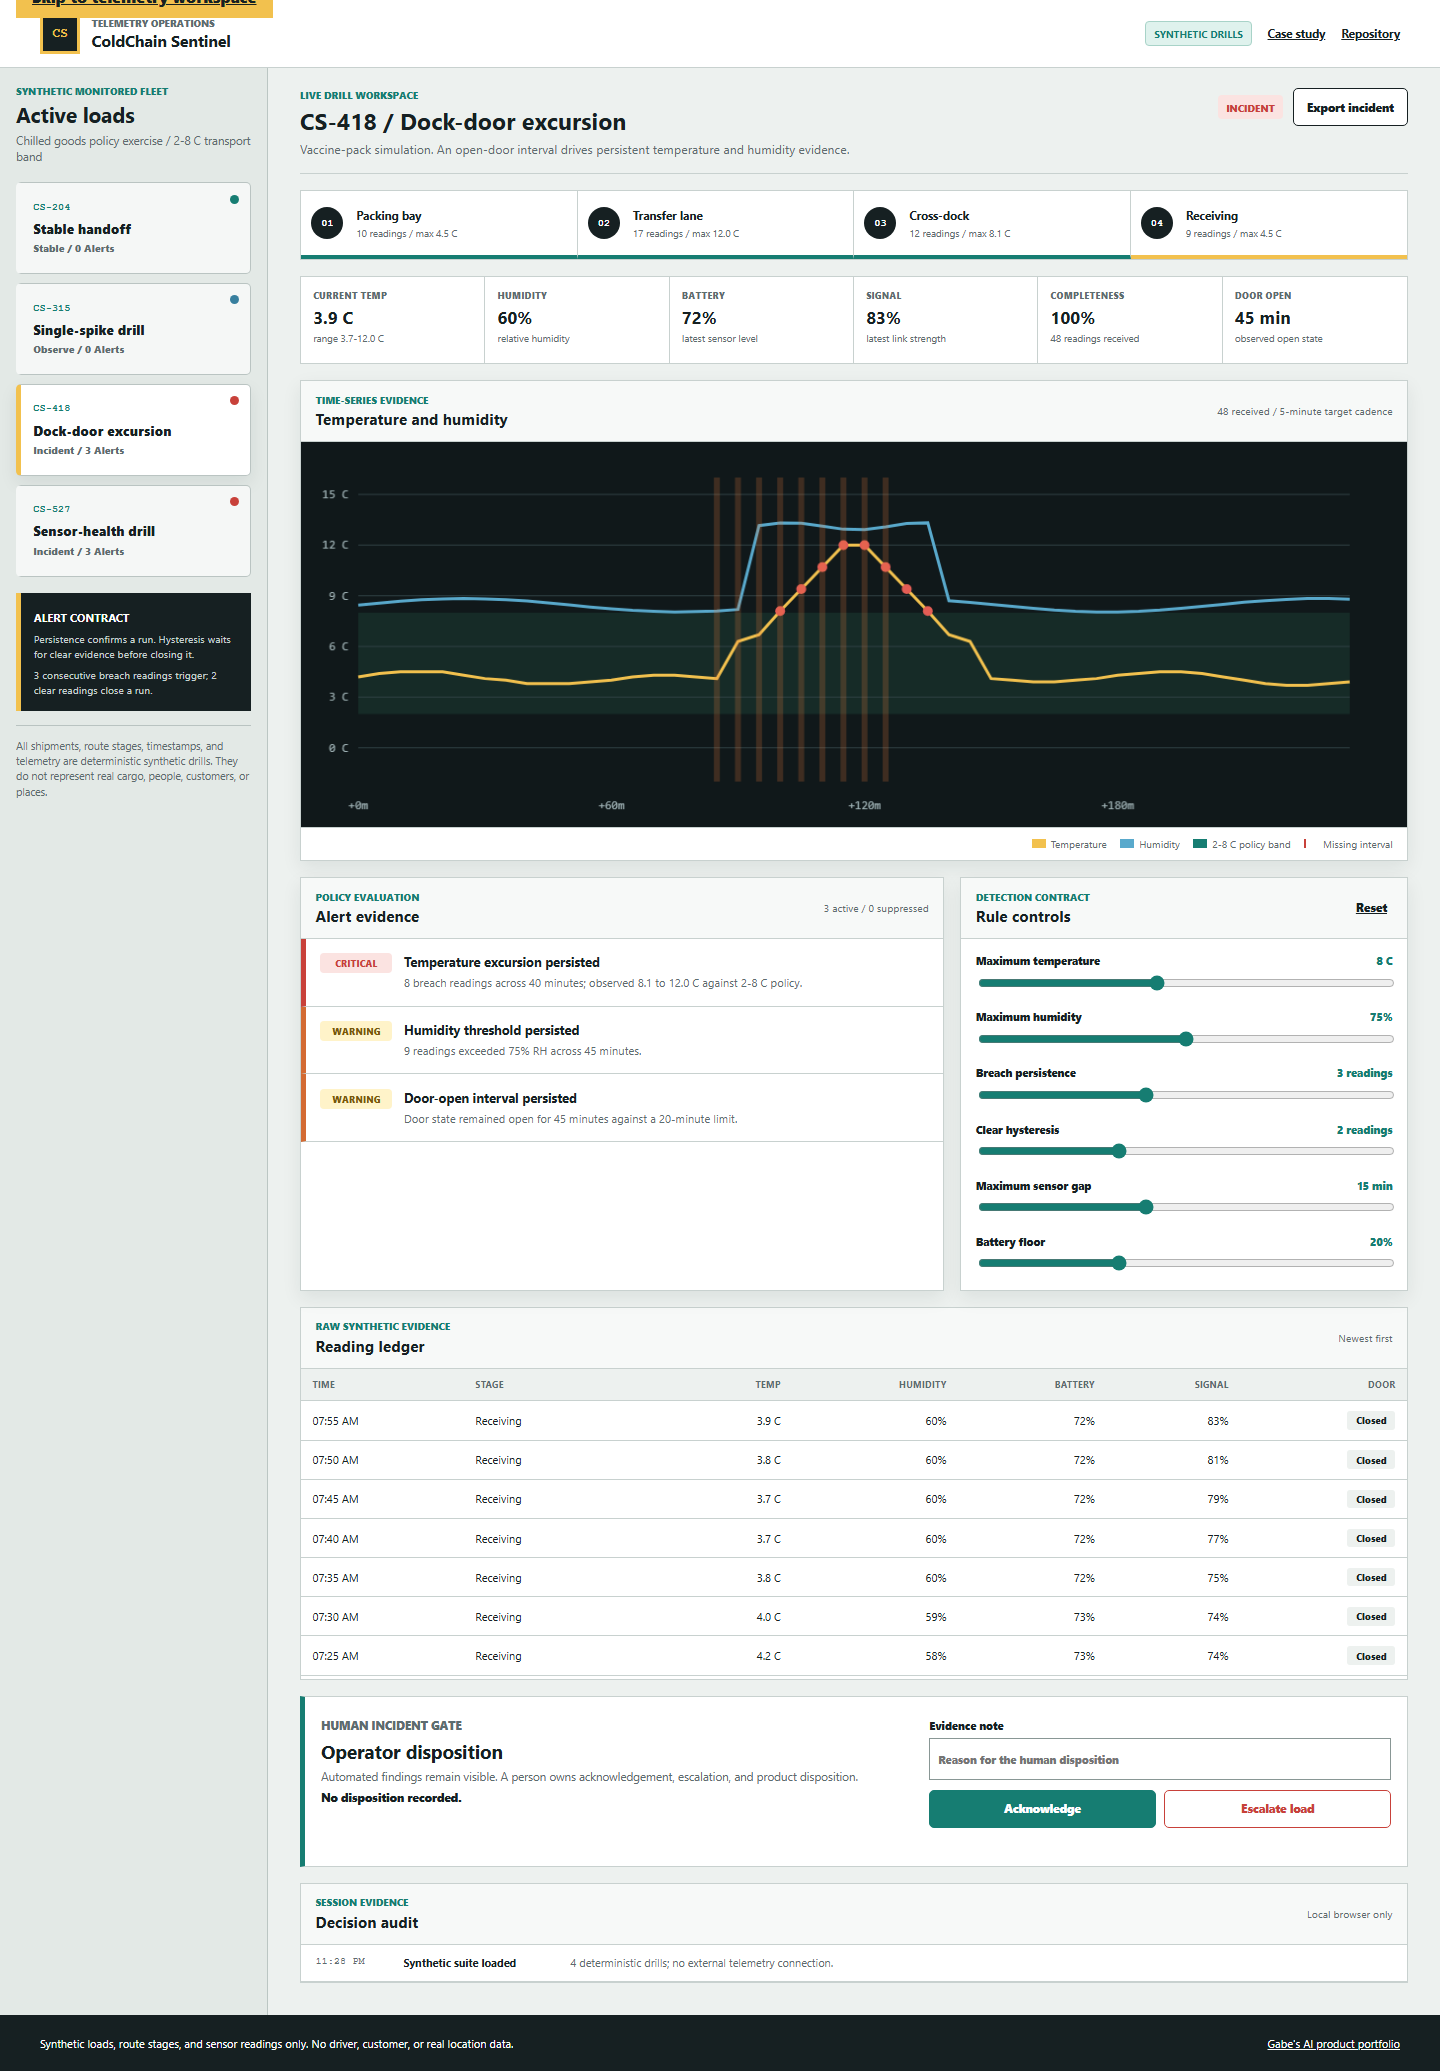
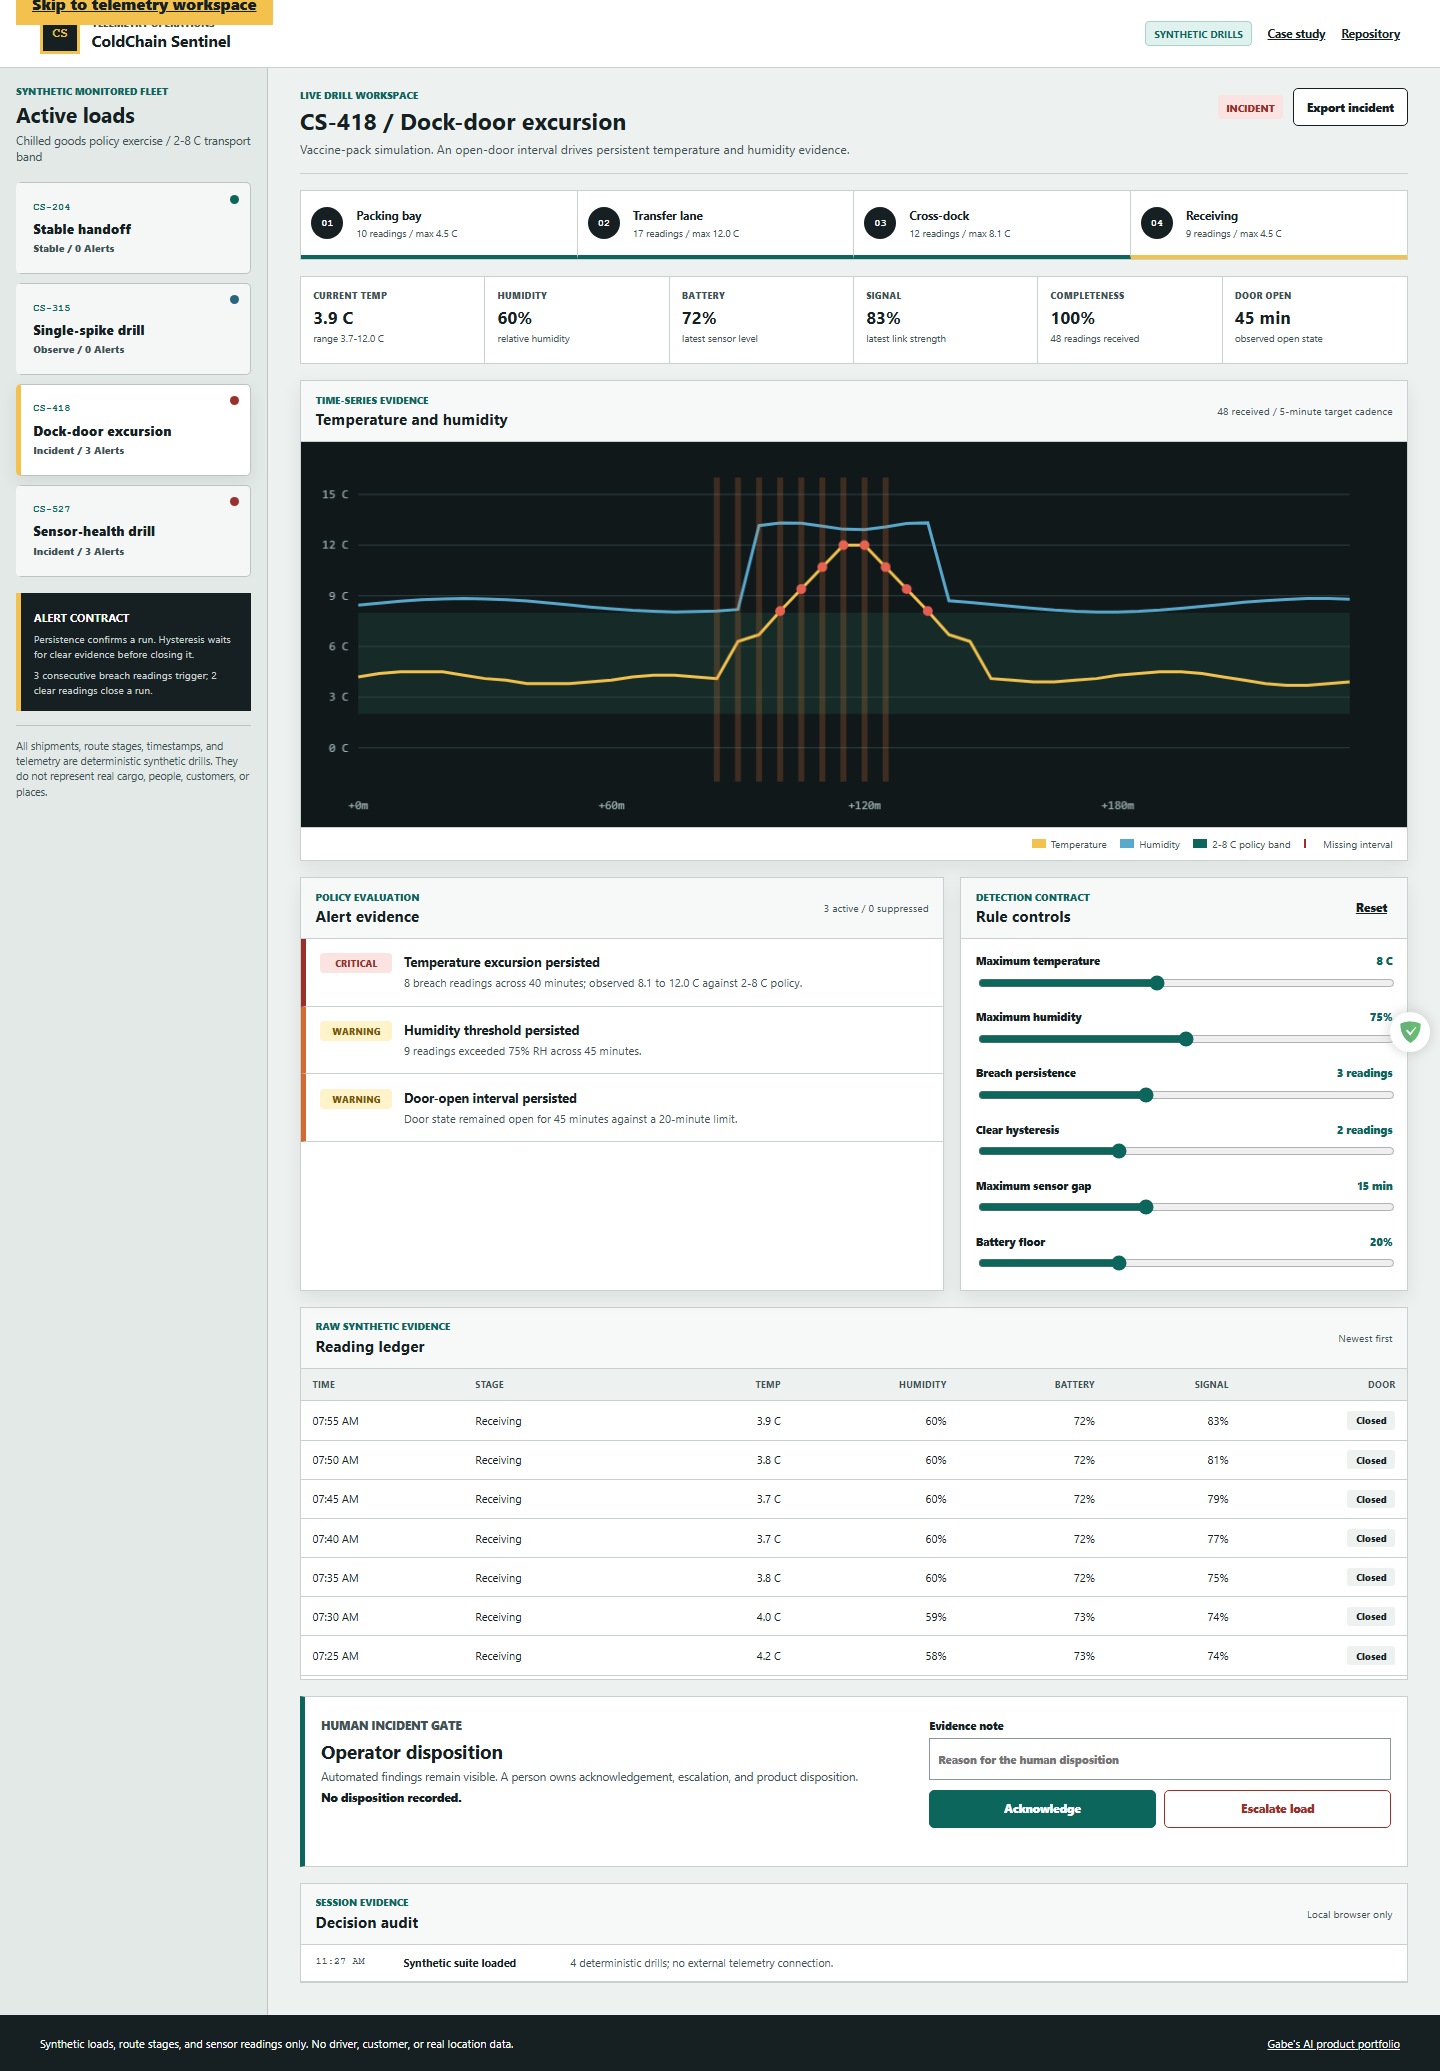
fix: improve telemetry accessibility

Changed region(s): [[0.0312, 0.0, 0.1875, 0.0309], [0.9688, 0.4944, 1.0, 0.5254]]

diff --git a/assets/styles.css b/assets/styles.css
@@ -1,4 +1,4 @@
-:root{--ink:#162022;--muted:#5d6c6f;--paper:#edf1ef;--surface:#fff;--line:#c8d1cf;--teal:#167d72;--teal-soft:#dff2ed;--yellow:#f2c14e;--yellow-soft:#fff3c9;--red:#c8413a;--red-soft:#fbe3e1;--blue:#377f9e;--blue-soft:#e0eff5;--orange:#d36a32;--shadow:0 7px 18px rgba(18,32,34,.08)}
+:root{--ink:#162022;--muted:#415255;--paper:#edf1ef;--surface:#fff;--line:#c8d1cf;--teal:#0d665c;--teal-soft:#dff2ed;--yellow:#f2c14e;--yellow-soft:#fff3c9;--red:#9b302b;--red-soft:#fbe3e1;--blue:#2a6580;--blue-soft:#e0eff5;--orange:#d36a32;--shadow:0 7px 18px rgba(18,32,34,.08)}
 *{box-sizing:border-box}html{scroll-behavior:smooth}body{margin:0;background:var(--paper);color:var(--ink);font-family:Inter,ui-sans-serif,system-ui,-apple-system,BlinkMacSystemFont,"Segoe UI",sans-serif;letter-spacing:0}a{color:inherit}button,input{font:inherit}button{min-height:38px;padding:.58rem .82rem;border:1px solid var(--ink);border-radius:5px;background:var(--ink);color:#fff;font-size:.72rem;font-weight:820;cursor:pointer}button:hover{background:#29383b}.skip-link{position:fixed;z-index:20;left:1rem;top:-5rem;padding:.7rem 1rem;background:var(--yellow);color:var(--ink);font-weight:850}.skip-link:focus{top:1rem}.app-header{min-height:68px;display:flex;align-items:center;justify-content:space-between;gap:1rem;padding:.65rem clamp(1rem,3vw,2.5rem);background:#fff;border-bottom:1px solid var(--line)}.brand{display:flex;align-items:center;gap:.72rem;text-decoration:none}.brand-mark{width:40px;height:40px;display:grid;place-items:center;background:var(--ink);color:var(--yellow);font:850 .8rem ui-monospace,monospace;border:3px solid var(--yellow)}.brand small,.brand strong{display:block}.brand small{color:var(--muted);font-size:.61rem;font-weight:800;text-transform:uppercase}.brand strong{margin-top:.12rem;font-size:.98rem}.header-links{display:flex;align-items:center;justify-content:flex-end;gap:1rem;font-size:.72rem;font-weight:780}.mode-badge{padding:.3rem .48rem;background:var(--teal-soft);color:var(--teal);border:1px solid #a8d3c8;border-radius:4px;font-size:.62rem;text-transform:uppercase}.eyebrow{margin:0;color:var(--teal);font-size:.62rem;font-weight:900;text-transform:uppercase}.startup,.error-state{min-height:calc(100vh - 124px);display:grid;place-content:center;justify-items:center;text-align:center}.startup h1,.error-state h1{margin:.45rem 0;font-size:1.65rem}.loader{width:210px;height:5px;margin-top:1rem;background:#d4dcda;overflow:hidden}.loader span{display:block;width:35%;height:100%;background:var(--teal);animation:load 1s ease-in-out infinite alternate}@keyframes load{to{transform:translateX(190%)}}
 .console-shell{display:grid;grid-template-columns:268px minmax(0,1fr);min-height:calc(100vh - 124px)}.load-rail{padding:1rem;background:#e3e9e6;border-right:1px solid #bbc6c3}.rail-heading h1{margin:.25rem 0;font-size:1.3rem}.rail-heading p:last-child{margin:.3rem 0 1rem;color:var(--muted);font-size:.72rem;line-height:1.45}.load-list{display:grid;gap:.55rem}.load-button{position:relative;display:block;width:100%;min-height:92px;padding:.72rem .76rem;text-align:left;background:#f5f7f6;color:var(--ink);border:1px solid #bac4c2;border-left:5px solid transparent}.load-button:hover{background:#fff}.load-button[aria-pressed=true]{background:#fff;border-left-color:var(--yellow);box-shadow:var(--shadow)}.load-button span,.load-button strong,.load-button small{display:block}.load-button span{color:var(--teal);font:850 .65rem ui-monospace,monospace}.load-button strong{margin:.38rem 0 .28rem;font-size:.84rem}.load-button small{color:var(--muted);font-size:.64rem;text-transform:capitalize}.load-health{position:absolute;right:.7rem;top:.72rem;width:9px;height:9px;border-radius:50%;background:#889694}.load-health.stable{background:var(--teal)}.load-health.observe{background:var(--blue)}.load-health.attention{background:var(--orange)}.load-health.incident{background:var(--red)}.rule-note{margin-top:1rem;padding:.8rem;background:var(--ink);color:#fff;border-left:5px solid var(--yellow)}.rule-note strong{font-size:.7rem;text-transform:uppercase}.rule-note p,.rule-note span{display:block;margin:.35rem 0 0;color:#c6d1d0;font-size:.65rem;line-height:1.45}.privacy-note{margin:.9rem 0 0;padding-top:.8rem;border-top:1px solid #b9c3c1;color:var(--muted);font-size:.66rem;line-height:1.45}
 .operations{min-width:0;padding:1.25rem clamp(1rem,2.5vw,2rem) 2rem}.operation-heading{display:flex;align-items:flex-start;justify-content:space-between;gap:1rem;padding-bottom:1rem;border-bottom:1px solid var(--line)}.operation-heading h2{margin:.22rem 0;font-size:1.45rem}.operation-heading p:last-child{max-width:720px;margin:.35rem 0 0;color:var(--muted);font-size:.77rem}.heading-actions{display:flex;align-items:center;gap:.6rem}.status{padding:.35rem .52rem;border-radius:4px;font-size:.62rem;font-weight:900;text-transform:uppercase}.status.stable{background:var(--teal-soft);color:var(--teal)}.status.observe{background:var(--blue-soft);color:var(--blue)}.status.attention{background:var(--yellow-soft);color:#805d09}.status.incident{background:var(--red-soft);color:var(--red)}button.secondary{background:#fff;color:var(--ink)}button.secondary:hover{background:var(--yellow-soft)}.journey-strip{display:grid;grid-template-columns:repeat(4,1fr);margin:1rem 0;background:#fff;border:1px solid var(--line)}.journey-stage{display:grid;grid-template-columns:36px minmax(0,1fr);align-items:center;gap:.55rem;min-height:68px;padding:.65rem;border-right:1px solid var(--line);border-bottom:4px solid var(--teal)}.journey-stage:last-child{border-right:0}.journey-stage.current{border-bottom-color:var(--yellow)}.journey-stage>span{display:grid;place-items:center;width:32px;height:32px;background:var(--ink);color:#fff;border-radius:50%;font:800 .65rem ui-monospace,monospace}.journey-stage strong,.journey-stage small{display:block}.journey-stage strong{font-size:.72rem}.journey-stage small{margin-top:.2rem;color:var(--muted);font-size:.61rem}.metric-strip{display:grid;grid-template-columns:repeat(6,1fr);margin-bottom:1rem;background:#fff;border:1px solid var(--line)}.metric-strip>div{min-height:86px;padding:.76rem;border-right:1px solid var(--line)}.metric-strip>div:last-child{border-right:0}.metric-strip span,.metric-strip strong,.metric-strip small{display:block}.metric-strip span{color:var(--muted);font-size:.59rem;font-weight:820;text-transform:uppercase}.metric-strip strong{margin:.22rem 0;font-size:1.08rem;overflow-wrap:anywhere}.metric-strip small{color:var(--muted);font-size:.61rem}.chart-section,.alerts-section,.policy-section,.telemetry-section,.decision-section,.audit-section{background:#fff;border:1px solid var(--line);box-shadow:var(--shadow)}.panel-heading{min-height:61px;display:flex;align-items:center;justify-content:space-between;gap:1rem;padding:.72rem .9rem;border-bottom:1px solid var(--line);background:#f7f9f8}.panel-heading h3{margin:.15rem 0 0;font-size:.96rem}.panel-heading>span{color:var(--muted);font-size:.65rem}.chart-section canvas{display:block;width:100%;height:auto;aspect-ratio:1120/390;background:#10181a}.chart-legend{display:flex;justify-content:flex-end;flex-wrap:wrap;gap:.85rem;padding:.55rem .9rem;border-top:1px solid var(--line);color:var(--muted);font-size:.63rem}.chart-legend i{display:inline-block;width:14px;height:9px;margin-right:.3rem}.chart-legend .temperature{background:var(--yellow)}.chart-legend .humidity{background:#59a9cc}.chart-legend .policy{background:var(--teal)}.chart-legend .missing{border-left:2px dashed var(--red)}

diff --git a/assets/app.js b/assets/app.js
@@ -42,7 +42,7 @@ function shell() {
         <section class="alerts-section" aria-labelledby="alerts-heading"><div class="panel-heading"><div><p class="eyebrow">Policy evaluation</p><h3 id="alerts-heading">Alert evidence</h3></div><span id="alert-count"></span></div><div id="alerts-list" class="alerts-list"></div><div id="suppressions" class="suppressions"></div></section>
         <section class="policy-section" aria-labelledby="policy-heading"><div class="panel-heading"><div><p class="eyebrow">Detection contract</p><h3 id="policy-heading">Rule controls</h3></div><button id="reset-policy" class="text-button" type="button">Reset</button></div><div id="policy-controls" class="policy-controls"></div></section>
       </div>
-      <section class="telemetry-section" aria-labelledby="telemetry-heading"><div class="panel-heading"><div><p class="eyebrow">Raw synthetic evidence</p><h3 id="telemetry-heading">Reading ledger</h3></div><span>Newest first</span></div><div class="table-wrap"><table><thead><tr><th>Time</th><th>Stage</th><th>Temp</th><th>Humidity</th><th>Battery</th><th>Signal</th><th>Door</th></tr></thead><tbody id="telemetry-body"></tbody></table></div></section>
+      <section class="telemetry-section" aria-labelledby="telemetry-heading"><div class="panel-heading"><div><p class="eyebrow">Raw synthetic evidence</p><h3 id="telemetry-heading">Reading ledger</h3></div><span>Newest first</span></div><div class="table-wrap" tabindex="0" aria-label="Telemetry reading ledger"><table><thead><tr><th>Time</th><th>Stage</th><th>Temp</th><th>Humidity</th><th>Battery</th><th>Signal</th><th>Door</th></tr></thead><tbody id="telemetry-body"></tbody></table></div></section>
       <section class="decision-section" aria-labelledby="decision-heading"><div><p class="eyebrow">Human incident gate</p><h3 id="decision-heading">Operator disposition</h3><p>Automated findings remain visible. A person owns acknowledgement, escalation, and product disposition.</p><p id="decision-summary" class="decision-summary">No disposition recorded.</p></div><div class="decision-form"><label for="operator-note">Evidence note<input id="operator-note" type="text" maxlength="180" placeholder="Reason for the human disposition"></label><div><button id="acknowledge-alerts" type="button">Acknowledge</button><button id="escalate-load" class="escalate" type="button">Escalate load</button></div><p id="decision-error" role="alert"></p></div></section>
       <section class="audit-section" aria-labelledby="audit-heading"><div class="panel-heading"><div><p class="eyebrow">Session evidence</p><h3 id="audit-heading">Decision audit</h3></div><span>Local browser only</span></div><ol id="audit-list"></ol></section>
     </section>

diff --git a/docs/VALIDATION.md b/docs/VALIDATION.md
@@ -45,8 +45,16 @@ The first deployed product tree was commit `064b22f1c333b3e853ade7980a2095de42d6
 
 - Live: https://jubjub-cpu.github.io/coldchain-sentinel/
 - Repository: https://github.com/jubjub-cpu/coldchain-sentinel
-- Release: https://github.com/jubjub-cpu/coldchain-sentinel/releases/tag/v1.0.0
+- Release: https://github.com/jubjub-cpu/coldchain-sentinel/releases/tag/v1.0.1
 
 ## Evidence policy
 
 Screenshots are generated by the same browser test that asserts behavior. Deployed checks use the public GitHub Pages URL rather than a local substitute. The validation record is updated only after those checks pass.
+
+## v1.0.1 hardening
+
+Validated locally on July 18, 2026.
+
+- Increased secondary and status contrast and added keyboard focus plus an accessible label to the telemetry ledger.
+- Repository validator, telemetry-engine tests, and local browser workflow passed.
+- Local axe-core audit passed at desktop and mobile viewports with zero violations; the same audit is required against the deployed patch before release publication.

diff --git a/docs/RELEASE_NOTES.md b/docs/RELEASE_NOTES.md
@@ -1,5 +1,11 @@
 # Release Notes
 
+## v1.0.1 - Accessibility hardening
+
+- Increased contrast for secondary, status, and critical telemetry text.
+- Made the horizontally scrollable reading ledger keyboard focusable and labeled.
+- Preserved telemetry analysis, policy controls, incident decisions, and browser workflows.
+
 ## v1.0.0 - Initial public release
 
 - Added four deterministic synthetic cold-chain drills with 188 generated readings.

diff --git a/README.md b/README.md
@@ -6,7 +6,7 @@ ColdChain Sentinel is a static telemetry incident console for exploring how tran
 
 **Repository:** https://github.com/jubjub-cpu/coldchain-sentinel
 
-**Release:** https://github.com/jubjub-cpu/coldchain-sentinel/releases/tag/v1.0.0
+**Release:** https://github.com/jubjub-cpu/coldchain-sentinel/releases/tag/v1.0.1
 
 ![ColdChain Sentinel desktop workspace](docs/screenshots/coldchain-sentinel-desktop.png)
 
